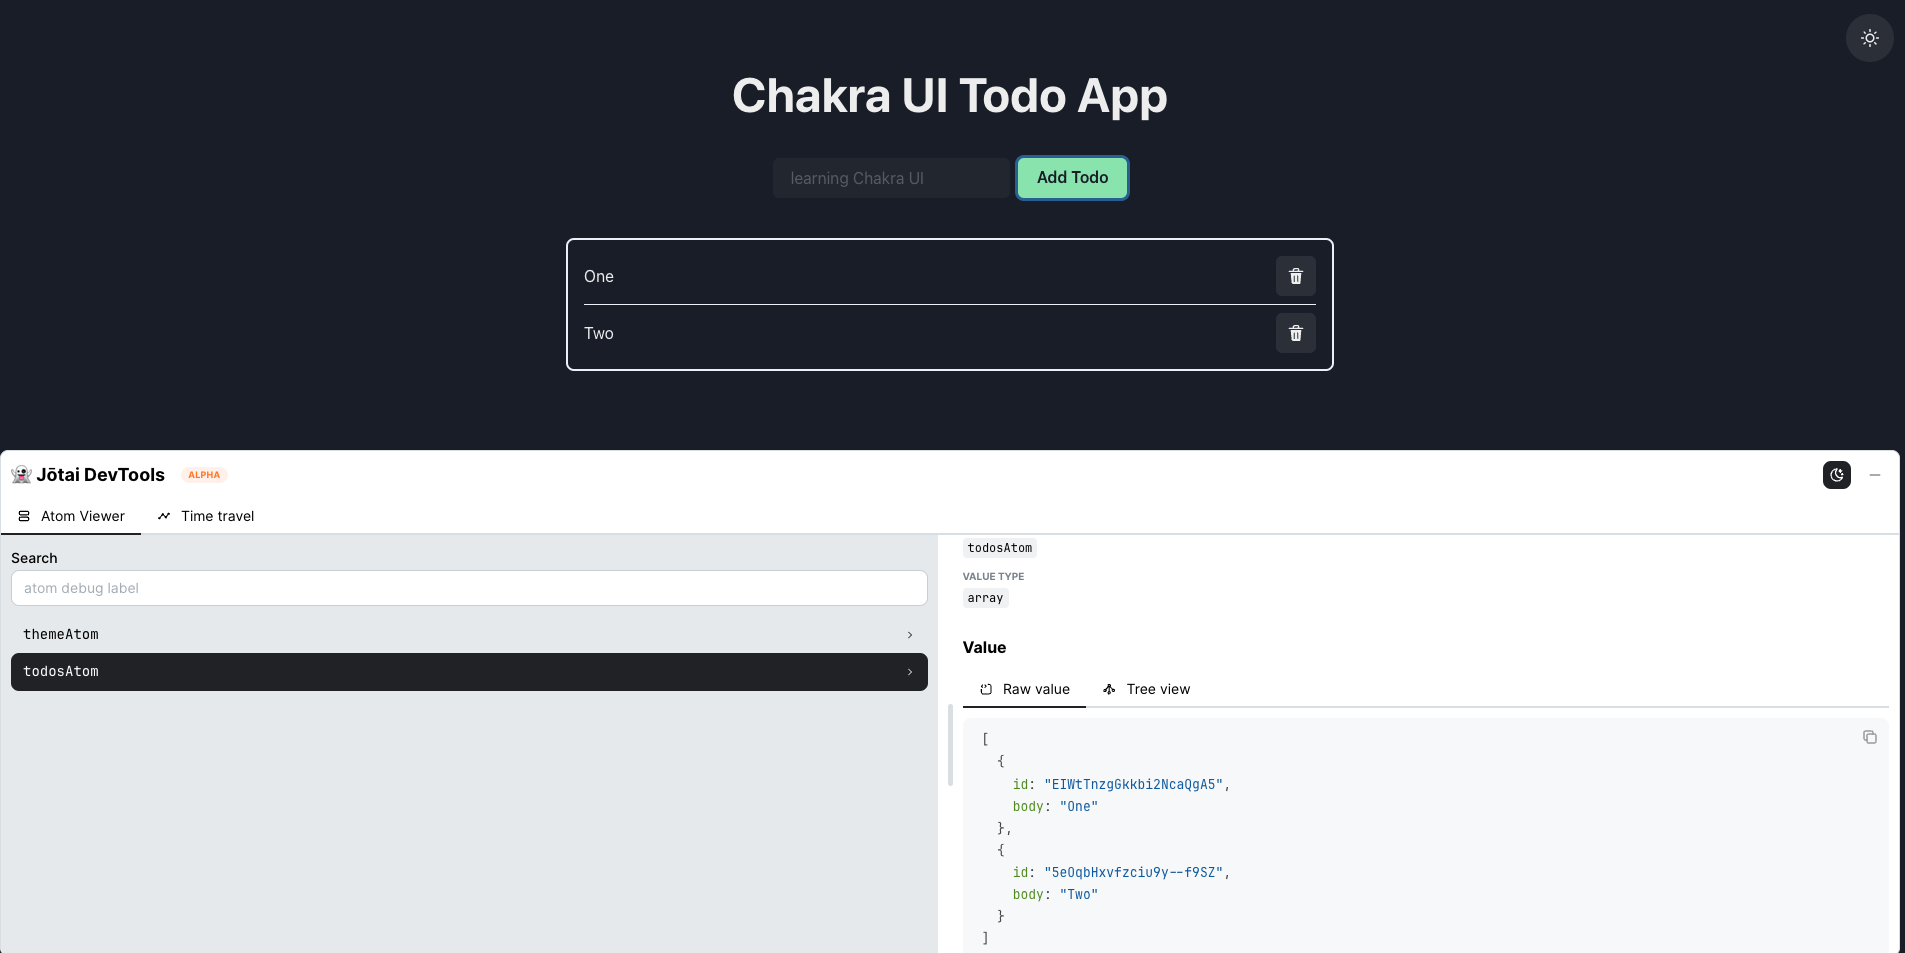
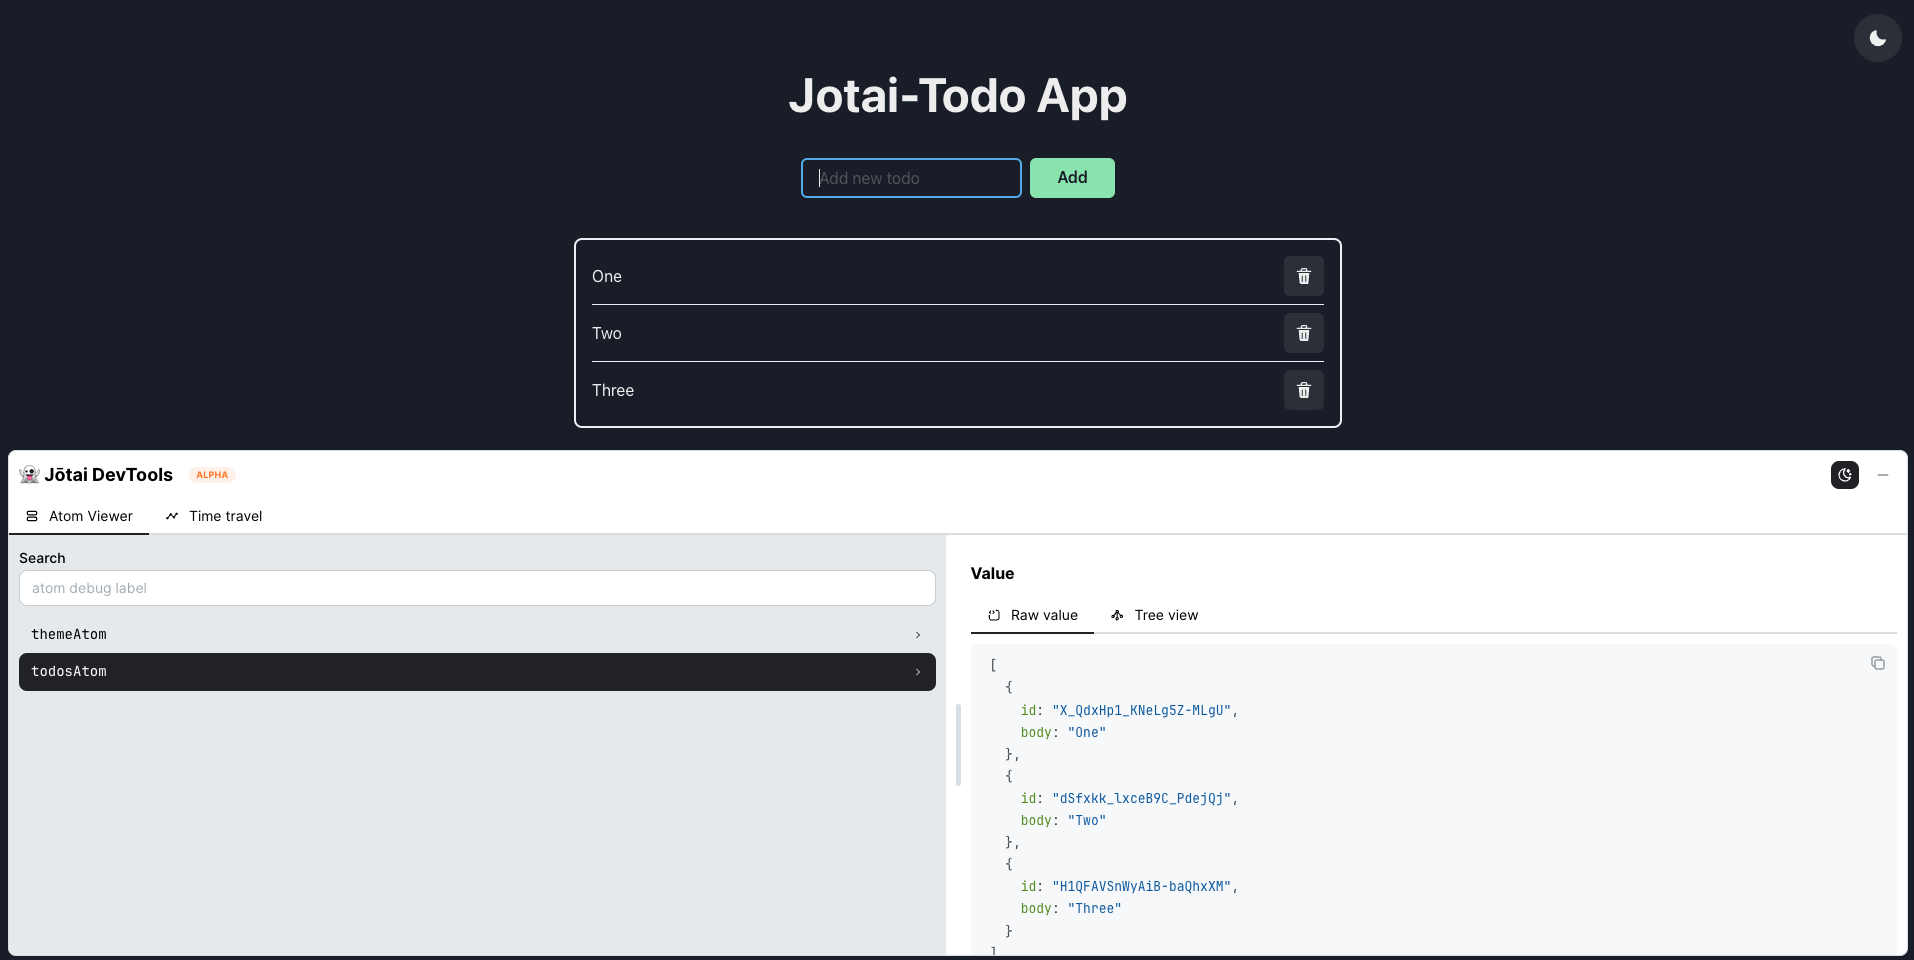
feat: refactor

diff --git a/src/components/AddTodo.tsx b/src/components/AddTodo.tsx
@@ -25,7 +25,7 @@ const AddTodo: React.FC<AddTodoProps> = ({ addTodo }) => {
     if (contentRef.current === null) return;
 
     if (!contentRef.current.value) {
-      toastError("No content");
+      toastError("This field is required.");
       return;
     }
 
@@ -38,14 +38,10 @@ const AddTodo: React.FC<AddTodoProps> = ({ addTodo }) => {
   return (
     <form onSubmit={handleSubmit}>
       <HStack m="8">
-        <Input
-          variant="filled"
-          placeholder="learning Chakra UI"
-          ref={contentRef}
-        />
+        <Input variant="filled" placeholder="Add new todo" ref={contentRef} />
 
         <Button type="submit" colorScheme="green" px="8">
-          Add Todo
+          Add
         </Button>
       </HStack>
     </form>

diff --git a/src/stores/todoStore.ts b/src/stores/todoStore.ts
@@ -16,18 +16,6 @@ export const addTodoAtom = atom(null, (get, set, body: string) => {
   set(todosAtom, [...get(todosAtom), newTodo]);
 });
 
-// Read
-export const readTodosAtom = atom((get) => get(todosAtom));
-
-// Update
-export const updateTodoAtom = atom(null, (get, set, updatedTodo: Todo) => {
-  const todos = get(todosAtom);
-  const updatedTodos = todos.map((todo) =>
-    todo.id === updatedTodo.id ? updatedTodo : todo
-  );
-  set(todosAtom, updatedTodos);
-});
-
 // Delete
 export const deleteTodoAtom = atom(null, (get, set, id: string) => {
   const todos = get(todosAtom);

diff --git a/src/App.tsx b/src/App.tsx
@@ -26,7 +26,7 @@ function App() {
   return (
     <VStack p={4}>
       <ColorModeSwitcher toggleTheme={toggleTheme} theme={theme} />
-      <Heading size="2xl">Chakra UI Todo App</Heading>
+      <Heading size="2xl">Jotai-Todo App</Heading>
       <AddTodo addTodo={setAddTodo} />
       <TodoList todos={todos} deleteTodo={deleteTodo} />
     </VStack>

diff --git a/src/components/TodoList.tsx b/src/components/TodoList.tsx
@@ -21,7 +21,7 @@ const TodoList: React.FC<TodoListProps> = ({ todos, deleteTodo }) => {
   if (todos.length === 0)
     return (
       <Badge colorScheme="green" p="4" m="4" borderRadius="lg">
-        No Todos, yay!!!
+        No Todos, yay~
       </Badge>
     );
 
